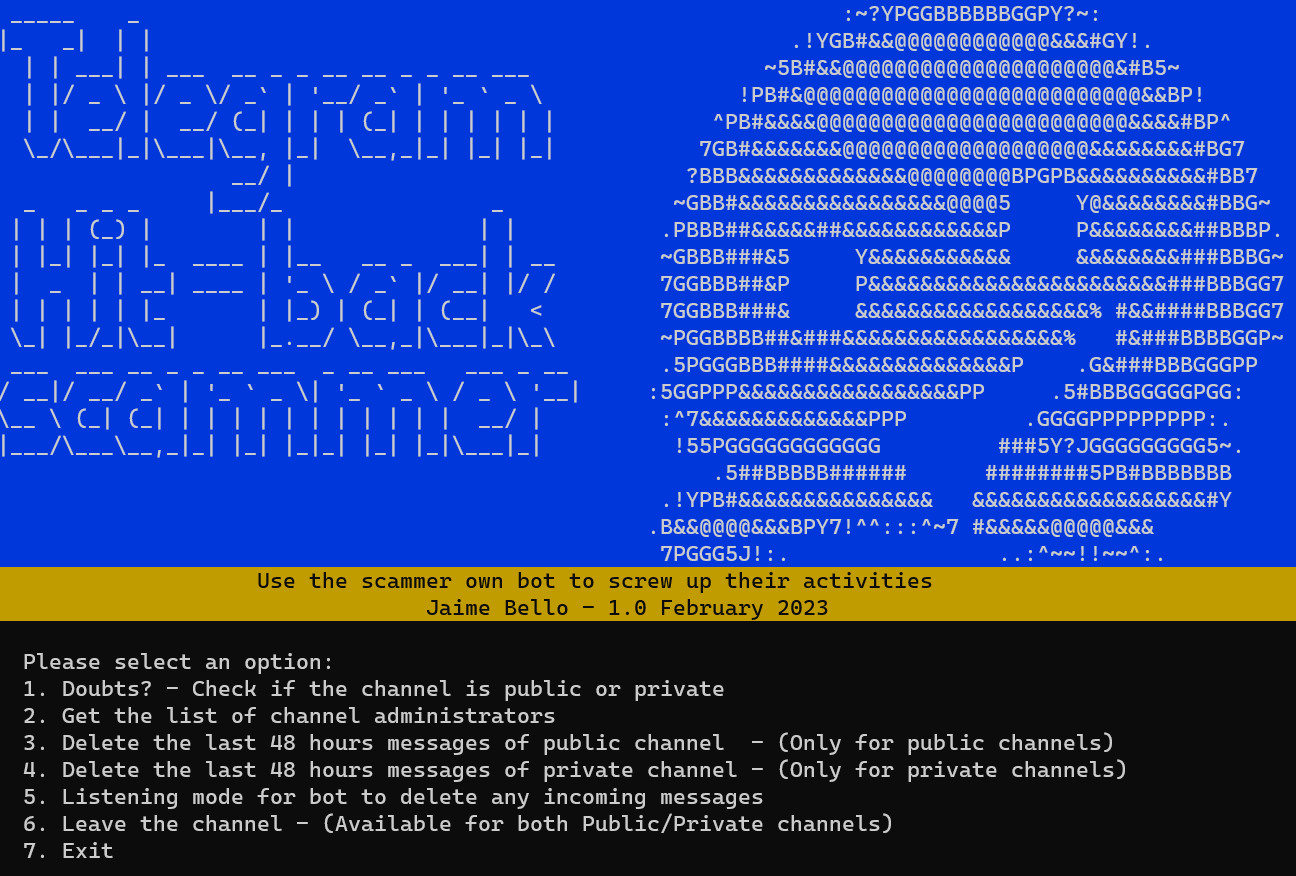
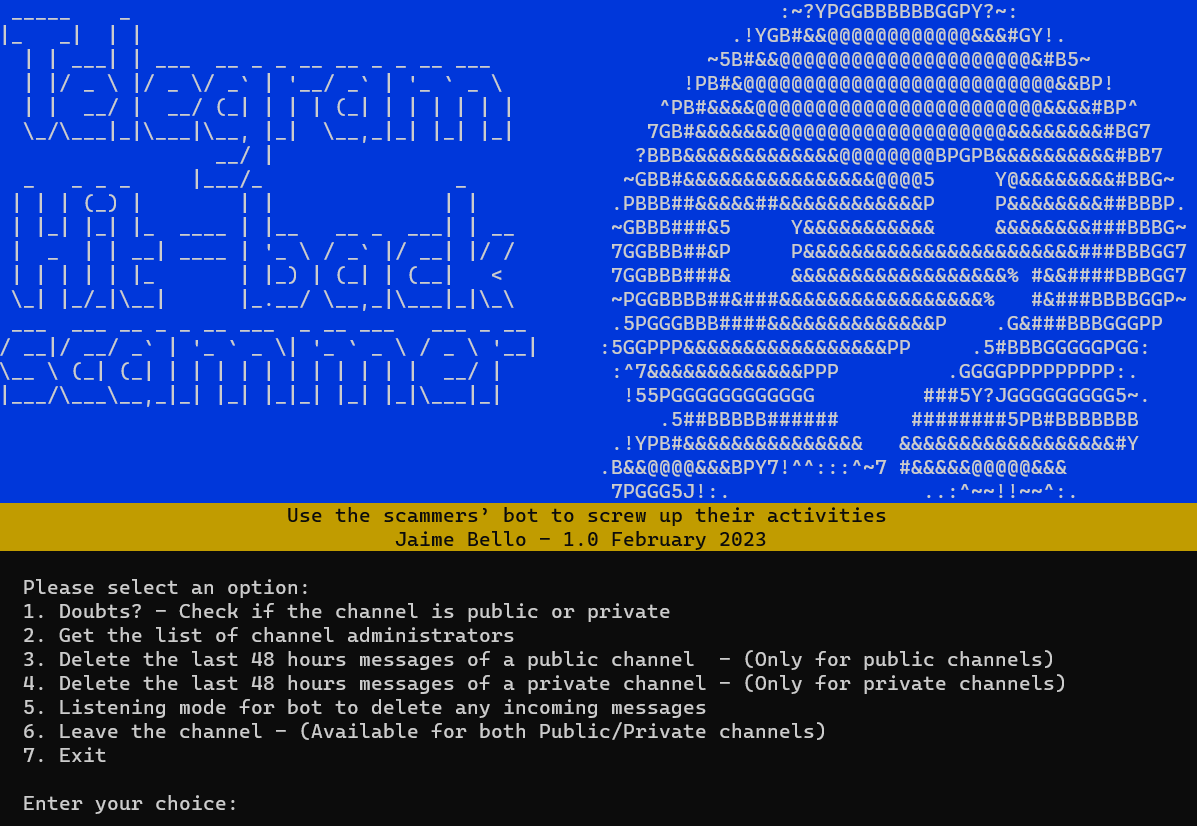
Improvements for better user experience

Changed region(s): [[0.0, 0.0, 1.0, 0.9988], [0.0, 0.2119, 0.4637, 0.5145], [0.0, 0.0, 0.4327, 0.2421]]

diff --git a/telegram-hitbackscammer.py b/telegram-hitbackscammer.py
@@ -2,6 +2,7 @@
 import configparser
 import subprocess
 import os
+import sys
 from telethon import TelegramClient
 from colorama import Fore, Back, Style
 from colorama import init
@@ -87,14 +88,14 @@ def menu():
     if foreground is True:
         print(Fore.WHITE + Back.BLUE)
         print(header.ljust(80))        
-        print(Fore.BLACK + Back.YELLOW + "".rjust(18) + "  Use the scammer own bot to screw up their activities".ljust(82))
+        print(Fore.BLACK + Back.YELLOW + "".rjust(22) + "  Use the scammers’ bot to screw up their activities".ljust(78))
         print(("".rjust(33) + AUTHOR + " - " + VERSION + "".rjust(36))) 
         print("".ljust(0) + Style.RESET_ALL + " ")
     print("".rjust(2) + "Please select an option:")
     print("".rjust(2) + "1. Doubts? - Check if the channel is public or private")
-    print("".rjust(2) + "2. Get the list of administrators for channel")
-    print("".rjust(2) + "3. Delete the last 48 hours messages of public channel  - (Only for public channels)")
-    print("".rjust(2) + "4. Delete the last 48 hours messages of private channel - (Only for private channels)")
+    print("".rjust(2) + "2. Get the list of channel administrators")
+    print("".rjust(2) + "3. Delete the last 48 hours messages of a public channel  - (Only for public channels)")
+    print("".rjust(2) + "4. Delete the last 48 hours messages of a private channel - (Only for private channels)")
     print("".rjust(2) + "5. Listening mode for bot to delete any incoming messages")
     print("".rjust(2) + "6. Leave the channel - (Available for both Public/Private channels)")
     print("".rjust(2) + "7. Exit\n")
@@ -127,29 +128,58 @@ def check_config():
 
 while check_config():    
     choice = menu()
-    if choice == "1":        
-        subprocess.run(["python3", "checkChannel.py"], check=True)        
-        foreground = False
-    elif choice == "2":        
-        subprocess.run(["python3", "getChannelAdmins.py"], check=True)        
-        foreground = False
-    elif choice == "3":
-        subprocess.run(["python3", "deleteChannelMsgs.py"], check=True)
-        foreground = False
-    elif choice == "4":
-        subprocess.run(["python3", "deletePrivateChannelMsgs.py"], check=True)
-        foreground = False
-    elif choice == "5":
-        subprocess.run(["python3", "deleteMsgsOnceBotPosted.py"], check=True)
-        foreground = False
-    elif choice == "6":
-        subprocess.run(["python3", "leaveChannelBot.py"], check=True)
-        foreground = False
-    elif choice == "7":
-        break
-    else:
-        foreground = False
-        print(Fore.BLACK + Back.WHITE)
-        print(header2.ljust(100))
-        print("".rjust(2) + "Invalid choice. Please try again.")
-        print(Style.RESET_ALL)
+    if sys.platform.startswith('win'):
+        if choice == "1":        
+            subprocess.run(["python", "checkChannel.py"], check=True)        
+            foreground = False
+        elif choice == "2":        
+            subprocess.run(["python", "getChannelAdmins.py"], check=True)        
+            foreground = False
+        elif choice == "3":
+            subprocess.run(["python", "deleteChannelMsgs.py"], check=True)
+            foreground = False
+        elif choice == "4":
+            subprocess.run(["python", "deletePrivateChannelMsgs.py"], check=True)
+            foreground = False
+        elif choice == "5":
+            subprocess.run(["python", "deleteMsgsOnceBotPosted.py"], check=True)
+            foreground = False
+        elif choice == "6":
+            subprocess.run(["python", "leaveChannelBot.py"], check=True)
+            foreground = False
+        elif choice == "7":
+            break
+        else:
+            foreground = False
+            print(Fore.BLACK + Back.WHITE)
+            print(header2.ljust(100))
+            print("".rjust(2) + "Invalid choice. Please try again.")
+            print(Style.RESET_ALL)
+
+    elif sys.platform.startswith('linux'):
+        if choice == "1":        
+            subprocess.run(["python3", "checkChannel.py"], check=True)        
+            foreground = False
+        elif choice == "2":        
+            subprocess.run(["python3", "getChannelAdmins.py"], check=True)        
+            foreground = False
+        elif choice == "3":
+            subprocess.run(["python3", "deleteChannelMsgs.py"], check=True)
+            foreground = False
+        elif choice == "4":
+            subprocess.run(["python3", "deletePrivateChannelMsgs.py"], check=True)
+            foreground = False
+        elif choice == "5":
+            subprocess.run(["python3", "deleteMsgsOnceBotPosted.py"], check=True)
+            foreground = False
+        elif choice == "6":
+            subprocess.run(["python3", "leaveChannelBot.py"], check=True)
+            foreground = False
+        elif choice == "7":
+            break
+        else:
+            foreground = False
+            print(Fore.BLACK + Back.WHITE)
+            print(header2.ljust(100))
+            print("".rjust(2) + "Invalid choice. Please try again.")
+            print(Style.RESET_ALL)

diff --git a/deletePrivateChannelMsgs.py b/deletePrivateChannelMsgs.py
@@ -3,6 +3,7 @@ import configparser
 import os
 from telethon import TelegramClient
 from colorama import Fore, Back, Style, init
+from tqdm import tqdm
 import time
 import datetime
 
@@ -43,7 +44,7 @@ async def get_channel_msgs(channel):
     last_msg = await bot.send_message(channel, "...")    
     date_minus_48h = last_msg.date - datetime.timedelta(hours=48)
 
-    print("Getting the last 48 hours of messages")
+    print(Fore.GREEN + "Phase 1/2 - Getting the last 48 hours of messages" + Style.RESET_ALL)
     msg_count = 0
 
     # Iterating over channel messages 
@@ -53,41 +54,43 @@ async def get_channel_msgs(channel):
             message = await bot.get_messages(channel, ids=msg_id)       
             if message.date > date_minus_48h:
                 none_count = 0
-                all_messages.append({"id": message.id, "msg": message.text})                                
+                all_messages.append({"id": message.id, "msg": message.text})
                 msg_count += 1
-                msg_id -= 1
+                msg_id -= 1    
+                for i in tqdm(range(0, msg_count), desc="Message " + str(msg_count)):            
+                    time.sleep(.01)                           
             else:
-                break          
+                break         
         #Handling NoneType data
         except Exception as err: 
             none_count += 1
             msg_id -= 1
             if none_count >= 30:
                 break
-    
-    print("Total messages gathered " + str(msg_count))
+
+    print(Fore.GREEN + "Completed! Total messages gathered " + str(msg_count) + Style.RESET_ALL + "\n")    
     return all_messages 
 
 async def delete_scammer_msgs(channel, list_messages): 
-    print(Back.WHITE + Fore.BLACK + "Deleting the last 48 hours of scammer channel " + str(channel) + Style.RESET_ALL)
+    print(Fore.GREEN + "Phase 2/2 - Deleting the last 48 hours of scammer channel " + str(channel) + Style.RESET_ALL)
     msg_count = 0
     for key in list_messages:        
         try:            
             await bot.delete_messages(channel, key['id'], revoke=True)
             time.sleep(1) # Sleep for 1 second to avoid flooding the servers
-            print("Succesfully deleted the message ID " + Fore.GREEN + str(key['id']) + Style.RESET_ALL)  
+            print("[+] Succesfully deleted the message ID " + Fore.GREEN + str(key['id']) + Style.RESET_ALL)  
             msg_count += 1
         except Exception as err: 
             pass              
             #To see properly the error, comment the 'pass' and below the error is because of
             #trying to remove id of services messages by Telegram
             #print(Exception, err)  
-    print("Completed the deletion of " + str(msg_count) + " messages.")  
+    print(Fore.GREEN + "Completed! Deleted " + str(msg_count) + " messages from channel." + Style.RESET_ALL + "\n")    
 
 async def send_message_to_scammer(channel):
     while True:
         # Getting your messages to post on the channel
-        message = input("Send final message(s) to the scammer (Type \033[31mCtrl\033[0m to exit): ")        
+        message = input("Send a final message(s) to the scammer (Type \033[31mCtrl\033[0m to exit): ")        
         if message == 'Ctrl':
             break
         else:

diff --git a/deleteChannelMsgs.py b/deleteChannelMsgs.py
@@ -3,6 +3,7 @@ import configparser
 import os
 from telethon import TelegramClient
 from colorama import Fore, Back, Style, init
+from tqdm import tqdm
 import time
 import datetime
 
@@ -37,37 +38,41 @@ async def get_channel_msgs():
     current_datetime = datetime.datetime.now(datetime.timezone.utc)
     date_minus_48h = current_datetime - datetime.timedelta(hours=48)  
 
-    print("Getting the last 48 hours of messages")
+    print(Fore.GREEN + "Phase 1/2 - Getting the last 48 hours of messages" + Style.RESET_ALL)
+    msg_count = 0
 
     # Iterating over channel messages
     async for message in client.iter_messages(channel):
         if message.date > date_minus_48h:
-            all_messages.append({"id": message.id, "msg": message.text})             
+            all_messages.append({"id": message.id, "msg": message.text})
+            msg_count += 1             
         else:
-            break 
-    print("Total messages gathered " + str(len(all_messages)))       
+            break
+        for i in tqdm(range(0, msg_count), desc="Message " + str(msg_count)):            
+            time.sleep(.01)  
+    print(Fore.GREEN + "Completed! Total messages gathered " + str(len(all_messages)) + Style.RESET_ALL + "\n")       
     return all_messages
     
 async def delete_scammer_msgs(list_messages):  
-    print(Back.WHITE + Fore.BLACK + "Deleting the last 48 hours of scammer channel " + channel + Style.RESET_ALL)
+    print(Fore.GREEN + "Phase 2/2 - Deleting the last 48 hours of scammer channel " + channel + Style.RESET_ALL)
     msg_count = 0
     for key in list_messages:        
         try:            
             await bot.delete_messages(channel, key['id'])
             time.sleep(1) # Sleep for 1 second to avoid flooding the servers
-            print("Succesfully deleted the message with ID " + Fore.GREEN + str(key['id']) + Style.RESET_ALL)  
+            print("[+] Succesfully deleted the message with ID " + Fore.GREEN + str(key['id']) + Style.RESET_ALL)  
             msg_count += 1 
         except Exception as err: 
             pass              
             #To see properly the error, comment the 'pass' and below the error is because of
             #trying to remove id of services messages by Telegram
             #print(Exception, err)  
-    print("Completed the deletion of " + str(msg_count) + " messages.") 
+    print(Fore.GREEN + "Completed! Deleted " + str(msg_count) + " messages from channel." + Style.RESET_ALL + "\n") 
 
 async def send_message_to_scammer():
     while True:
         # Getting your messages to post on the channel
-        message = input("Send final message(s) to the scammer (Type \033[31mCtrl\033[0m to exit): ")        
+        message = input("Send a final message(s) to the scammer (Type \033[31mCtrl\033[0m to exit): ")        
         if message == 'Ctrl':
             break
         else:

diff --git a/leaveChannelBot.py b/leaveChannelBot.py
@@ -2,7 +2,7 @@
 import configparser
 import os
 from telethon import TelegramClient, types
-from colorama import Fore, Style
+from colorama import Fore, Back, Style
 import sys
 
 # Reading Configs
@@ -37,29 +37,29 @@ async def main():
 
     # Check if User
     if isinstance(channel, types.User):
-        print(Fore.RED + "You can't do this action in private chats")
+        print("\n" + Back.WHITE + Fore.RED + "You can't do this because your input belongs to a user entity, not a channel" + Style.RESET_ALL)
         sys.exit(0)
     
-    print(Fore.RED + "Are you sure?\n" + Fore.WHITE + "Leaving this channel means a lossing of doing other activities over the channel")
-    answer = input("Type 'Yes' to proceed, anything to cancel: ")
+    print(Fore.RED + "Are you sure?\nLeaving this channel means a lossing of doing other activities over the channel")
+    answer = input("Type 'Yes' to proceed, anything to cancel: " + Style.RESET_ALL)
     if answer == 'Yes':
         try:
             await bot.delete_dialog(channel, revoke = True)
-            print(Fore.GREEN + "Succesfully leaving the channel " + str(entity) + Style.RESET_ALL)
+            print("\n" + Fore.GREEN + "Completed! Succesfully leaving the channel " + str(entity) + Style.RESET_ALL)
         except Exception as err:
             print(Exception, err)
             print("It might possible you see you're not a member of channel because you already previously left it")
     elif answer == 'yes':
-        print("Please type Yes next time")
+        print(Fore.RED + "Please type Yes next time once you input the channel again" + Style.RESET_ALL)
         await main()
     elif answer == 'y':
-        print("Please type Yes next time")
+        print(Fore.RED + "Please type Yes next time once you input the channel again" + Style.RESET_ALL)
         await main()
     elif answer == 'Y':
-        print("Please type Yes next time")
+        print(Fore.RED + "Please type Yes next time once you input the channel again" + Style.RESET_ALL)
         await main()    
     else:
-        print("Not leaving the channel " + str(entity) + " as you cancelled the operation")
+        print("\n" + Back.WHITE + Fore.RED + "[-] Not leaving the channel " + str(entity) + " as you cancelled the operation" + Style.RESET_ALL)
             
 with bot:
     bot.loop.run_until_complete(main())

diff --git a/checkChannel.py b/checkChannel.py
@@ -36,13 +36,13 @@ async def check_scammer_channel():
         channel = await bot.get_entity(channel)
         if isinstance(channel, types.Channel):            
             if channel.username is None:
-                print(Fore.GREEN + 'The channel is private.' + Style.RESET_ALL)                
+                print(Fore.GREEN + '\nThe channel is private.' + Style.RESET_ALL)                
             else: 
-                print(Fore.GREEN + 'The channel is public.' + Style.RESET_ALL)
+                print(Fore.GREEN + '\nThe channel is public.' + Style.RESET_ALL)
         elif isinstance(channel, types.User):
-            print(Fore.GREEN + 'This entity is not properly a channel, it belongs to a user account.\nBut no worries, you can treat this as a private channel' + Style.RESET_ALL) 
+            print(Fore.GREEN + "Your input entity is not a channel, it belongs to a user account.\nBut don't worry, you can manage it as a private channel" + Style.RESET_ALL)        
     except Exception as err:
-        print(Fore.RED + "The username you provided seems not existing on Telegram ecosystem." + Style.RESET_ALL)          
+        print(Fore.RED + "The username you provided seems not to exist in the Telegram ecosystem." + Style.RESET_ALL)          
         
 with bot:
     bot.loop.run_until_complete(check_scammer_channel())

diff --git a/getChannelAdmins.py b/getChannelAdmins.py
@@ -38,8 +38,8 @@ async def main():
         channel = entity
 
     # Check if User
-    if isinstance(channel, types.User):
-        print(Fore.RED + "This entity belongs to a user, not a channel. That's why is not possible to list administrators")
+    if isinstance(await bot.get_entity(channel), types.User):
+        print(Fore.RED + "This entity belongs to a user, not a channel. That's why it is not possible to get the list of administrators")
         sys.exit(0)
 
     # Get the administrators of the channel    

diff --git a/deleteMsgsOnceBotPosted.py b/deleteMsgsOnceBotPosted.py
@@ -20,7 +20,7 @@ if not os.path.isfile(str(bot_username) + ".session"):
     print(Fore.GREEN + "[+] We are creating the session file for bot, input the bot token (i.e. 4509046619:LMnjdork...)" + Style.RESET_ALL)
 bot = TelegramClient(bot_username, api_id, api_hash)
 count = 0
-print("Listening mode for bot")
+print(Fore.GREEN + "Ok, Listening mode for bot" + Style.RESET_ALL)
 
 #Just deleting the messages once posted on chat(s)/channel(s) associated with this bot
 @bot.on(events.NewMessage)

diff --git a/README.md b/README.md
@@ -30,13 +30,13 @@ If you don't know whether the channel found on the phishing kit is public or pri
 
 More info about the Telegram chats/channels: https://telegram.org/faq_channels
 
-### 2. Get the list of administrators for channel
+### 2. Get the list of channel administrators
 Get a list of scammer channel`s administrators, then you may see who is the owner of the channel and make a threat attribution, i.e. identify the responsible scammer/phisher.
 
-### 3. Delete the last 48 hours messages of public channel  - (Only for public channels)
+### 3. Delete the last 48 hours messages of a public channel  - (Only for public channels)
 Selecting this option, you can read and delete the messages received during the last 48 hours on **public** scammer channel. Be sure to **input a public channel name** once the program asks to avoid errors.
 
-### 4. Delete the last 48 hours messages of private channel - (Only for private channels)
+### 4. Delete the last 48 hours messages of a private channel - (Only for private channels)
 Selecting this option, you can read and delete the messages received during the last 48 hours on **private** scammer channel. Be sure to **input a private channel name** once the program asks to avoid errors.
 
 ### 5. Listening mode for bot to delete any incoming messages
@@ -44,7 +44,7 @@ This is an interesting option if you want to annoy the scammer!
 
 This option has **the power to delete immediately any message the scammer bot writes in any chat/channel** associated with the malicious bot-token found on the phishing kit, if the attacker has more phishing campaings with other chats/channels created.
 
-Once you select this option, you will see the message **Listening mode for bot**, and every time a victim processes the data on a phishing website associated with the bot-token value, you will see a notification on the shell/screen that the message was deleted. The scammer will be fucked up and unable to see what the bot tried to post in the chat/channel.
+Once you select this option, you will see the message **Ok, Listening mode for bot**, and every time a victim processes the data on a phishing website associated with the bot-token value, you will see a notification on the shell/screen that the message was deleted. The scammer will be fucked up and unable to see what the bot tried to post in the chat/channel.
 
 ### 6. Leave the channel - (Available for both Public/Private channels)
 This will disconnect/make a bot used by a scammer/phisher leave the channel. This is a way to avoid further bot's posting on the channel without your actions being noticed. This option **has 2 disadvantages** though:
@@ -58,11 +58,11 @@ Just to finish the program.
 
 # Getting started
 1. Download / clone the repo
-2. Install required packages: ```pip3 install -r requirements.txt```
+2. Install required packages: ```pip3 install -r requirements.txt``` or ```pip install -r requirements.txt``` 
 3. Get the Telegram API keys (api_id and api_hash) following the instructions here https://core.telegram.org/api/obtaining_api_id
 4. Set the API keys in your config.ini file
-5. You're ready to go :) simply run the main script ```python3 .\telegram-hitbackscammer.py```
-6. The first time, you would be asked for a kind of login, **input your mobile number** including the + (i.e. +57300...), then you would be asked for the bot-token (i.e. 4509046619:LMnjdorkaLUIiJldlp302lJDLmciOlLjJsi), found on the phishing kit. This is to create a .session files to interact with the Telegram API.
+5. You're ready to go :) simply run the main script ```python3 .\telegram-hitbackscammer.py``` for Linux or ```python .\telegram-hitbackscammer.py``` if you are using a Windows environment 
+6. The first time, you would be asked for a kind of login, **input your mobile number** including the + (i.e. +57300...), then you would be asked for the bot-token (i.e. 4509046619:LMnjdorkaLUIiJldlp302lJDLmciOlLjJsi), found on the phishing kit. This is to create a .session files to interact with the Telegram API
 
 # Main feeds of this program
 The core of telegram-hitbackscammer are the chats/channels and Telegram bot-tokens. Below you can see some examples taken from real phishing cases:
